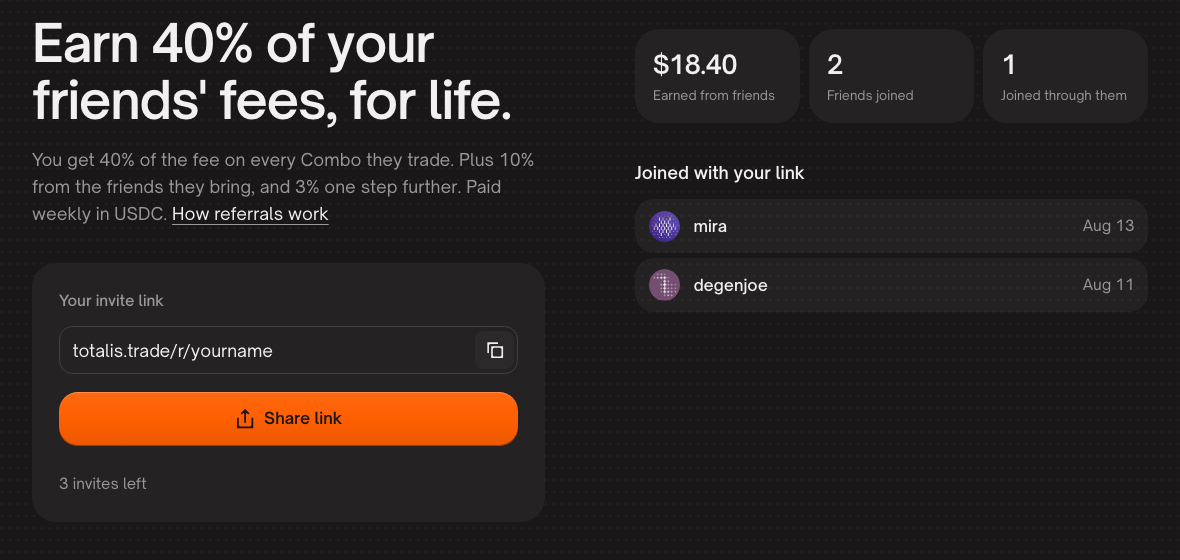
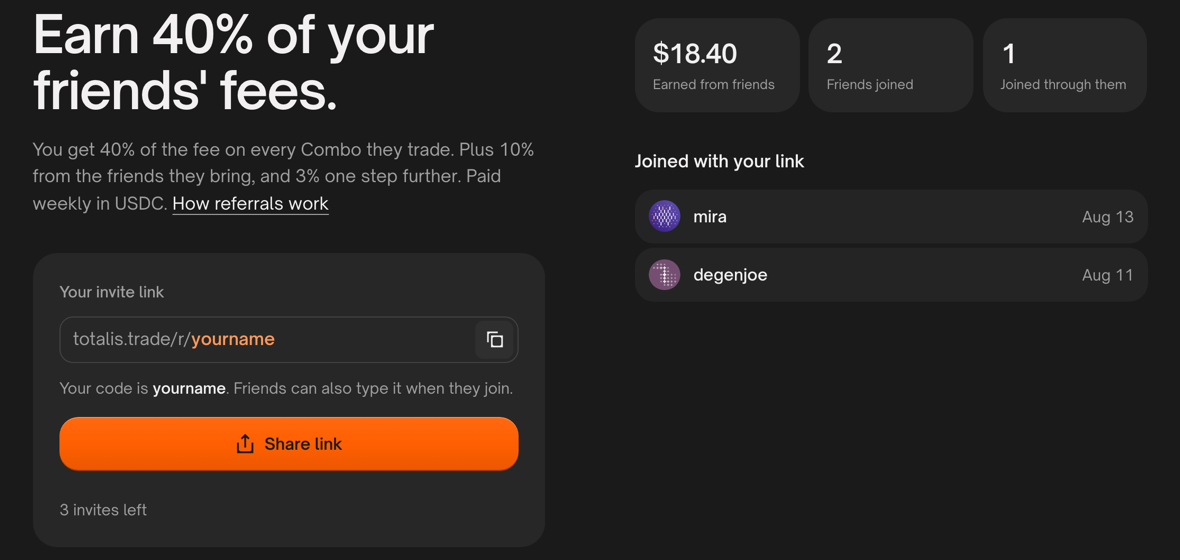
docs(referrals): Genesis accounts keep 40/10/3, others earn 10% from Nov 30 (TT-2969)

diff --git a/images/pictures/src/referrals.html b/images/pictures/src/referrals.html
@@ -88,4 +88,4 @@ html, body { margin: 0; width: 1540px; height: 952px; background: var(--bg); fon
 .chan .bar { position: absolute; top: 0; height: 84px; border-radius: 22px; background: var(--box); border: 2px solid var(--box-line); }
 .chan .bar.hi { background: var(--accent-soft); border-color: transparent; }
 .marks { position: absolute; left: 400px; right: 100px; top: 700px; border-top: 4px dashed var(--dash); }
-</style></head><body><div class="stage"><div class="inner" style="zoom:1.0"><div class="tree"><div class="who"><div class="avatar a1"></div><div class="label">You</div></div><div class="dl v" style=--h:72px></div><div class="band hi"><div class="tab"><span class="n">40%</span><span class="t">Invited by you</span></div><div class="avatar a2" style="width:72px;height:72px"></div><div class="avatar a3" style="width:72px;height:72px"></div><div class="avatar a4" style="width:72px;height:72px"></div></div><div class="dl v" style=--h:72px></div><div class="band"><div class="tab"><span class="n">10%</span><span class="t">Invited by them</span></div><div class="kin" style="--g:72px"><div class="avatar a5" style="width:48px;height:48px"></div><div class="avatar a6" style="width:48px;height:48px"></div><div class="avatar a2" style="width:48px;height:48px"></div></div><div class="kin" style="--g:72px"><div class="avatar a3" style="width:48px;height:48px"></div><div class="avatar a4" style="width:48px;height:48px"></div><div class="avatar a5" style="width:48px;height:48px"></div></div><div class="kin" style="--g:72px"><div class="avatar a6" style="width:48px;height:48px"></div><div class="avatar a2" style="width:48px;height:48px"></div><div class="avatar a3" style="width:48px;height:48px"></div></div></div><div class="dl v" style=--h:72px></div><div class="band"><div class="tab"><span class="n">3%</span><span class="t">One step further</span></div><div class="kin" style="--g:26px"><div class="kin" style="--g:8px"><div class="avatar a4" style="width:26px;height:26px"></div><div class="avatar a5" style="width:26px;height:26px"></div><div class="avatar a6" style="width:26px;height:26px"></div></div><div class="kin" style="--g:8px"><div class="avatar a2" style="width:26px;height:26px"></div><div class="avatar a3" style="width:26px;height:26px"></div><div class="avatar a4" style="width:26px;height:26px"></div></div><div class="kin" style="--g:8px"><div class="avatar a5" style="width:26px;height:26px"></div><div class="avatar a6" style="width:26px;height:26px"></div><div class="avatar a2" style="width:26px;height:26px"></div></div></div><div class="kin" style="--g:26px"><div class="kin" style="--g:8px"><div class="avatar a3" style="width:26px;height:26px"></div><div class="avatar a4" style="width:26px;height:26px"></div><div class="avatar a5" style="width:26px;height:26px"></div></div><div class="kin" style="--g:8px"><div class="avatar a6" style="width:26px;height:26px"></div><div class="avatar a2" style="width:26px;height:26px"></div><div class="avatar a3" style="width:26px;height:26px"></div></div><div class="kin" style="--g:8px"><div class="avatar a4" style="width:26px;height:26px"></div><div class="avatar a5" style="width:26px;height:26px"></div><div class="avatar a6" style="width:26px;height:26px"></div></div></div><div class="kin" style="--g:26px"><div class="kin" style="--g:8px"><div class="avatar a2" style="width:26px;height:26px"></div><div class="avatar a3" style="width:26px;height:26px"></div><div class="avatar a4" style="width:26px;height:26px"></div></div><div class="kin" style="--g:8px"><div class="avatar a5" style="width:26px;height:26px"></div><div class="avatar a6" style="width:26px;height:26px"></div><div class="avatar a2" style="width:26px;height:26px"></div></div><div class="kin" style="--g:8px"><div class="avatar a3" style="width:26px;height:26px"></div><div class="avatar a4" style="width:26px;height:26px"></div><div class="avatar a5" style="width:26px;height:26px"></div></div></div></div></div></div></div><script>if (location.search.includes("dark")) document.body.classList.add("dark");</script></body></html>
+</style></head><body><div class="stage"><div class="inner" style="zoom:1.0"><div class="tree"><div class="who"><div class="avatar a1"></div><div class="label">You, with Genesis</div></div><div class="dl v" style=--h:72px></div><div class="band hi"><div class="tab"><span class="n">40%</span><span class="t">Invited by you</span></div><div class="avatar a2" style="width:72px;height:72px"></div><div class="avatar a3" style="width:72px;height:72px"></div><div class="avatar a4" style="width:72px;height:72px"></div></div><div class="dl v" style=--h:72px></div><div class="band"><div class="tab"><span class="n">10%</span><span class="t">Invited by them</span></div><div class="kin" style="--g:72px"><div class="avatar a5" style="width:48px;height:48px"></div><div class="avatar a6" style="width:48px;height:48px"></div><div class="avatar a2" style="width:48px;height:48px"></div></div><div class="kin" style="--g:72px"><div class="avatar a3" style="width:48px;height:48px"></div><div class="avatar a4" style="width:48px;height:48px"></div><div class="avatar a5" style="width:48px;height:48px"></div></div><div class="kin" style="--g:72px"><div class="avatar a6" style="width:48px;height:48px"></div><div class="avatar a2" style="width:48px;height:48px"></div><div class="avatar a3" style="width:48px;height:48px"></div></div></div><div class="dl v" style=--h:72px></div><div class="band"><div class="tab"><span class="n">3%</span><span class="t">One step further</span></div><div class="kin" style="--g:26px"><div class="kin" style="--g:8px"><div class="avatar a4" style="width:26px;height:26px"></div><div class="avatar a5" style="width:26px;height:26px"></div><div class="avatar a6" style="width:26px;height:26px"></div></div><div class="kin" style="--g:8px"><div class="avatar a2" style="width:26px;height:26px"></div><div class="avatar a3" style="width:26px;height:26px"></div><div class="avatar a4" style="width:26px;height:26px"></div></div><div class="kin" style="--g:8px"><div class="avatar a5" style="width:26px;height:26px"></div><div class="avatar a6" style="width:26px;height:26px"></div><div class="avatar a2" style="width:26px;height:26px"></div></div></div><div class="kin" style="--g:26px"><div class="kin" style="--g:8px"><div class="avatar a3" style="width:26px;height:26px"></div><div class="avatar a4" style="width:26px;height:26px"></div><div class="avatar a5" style="width:26px;height:26px"></div></div><div class="kin" style="--g:8px"><div class="avatar a6" style="width:26px;height:26px"></div><div class="avatar a2" style="width:26px;height:26px"></div><div class="avatar a3" style="width:26px;height:26px"></div></div><div class="kin" style="--g:8px"><div class="avatar a4" style="width:26px;height:26px"></div><div class="avatar a5" style="width:26px;height:26px"></div><div class="avatar a6" style="width:26px;height:26px"></div></div></div><div class="kin" style="--g:26px"><div class="kin" style="--g:8px"><div class="avatar a2" style="width:26px;height:26px"></div><div class="avatar a3" style="width:26px;height:26px"></div><div class="avatar a4" style="width:26px;height:26px"></div></div><div class="kin" style="--g:8px"><div class="avatar a5" style="width:26px;height:26px"></div><div class="avatar a6" style="width:26px;height:26px"></div><div class="avatar a2" style="width:26px;height:26px"></div></div><div class="kin" style="--g:8px"><div class="avatar a3" style="width:26px;height:26px"></div><div class="avatar a4" style="width:26px;height:26px"></div><div class="avatar a5" style="width:26px;height:26px"></div></div></div></div></div></div></div><script>if (location.search.includes("dark")) document.body.classList.add("dark");</script></body></html>

diff --git a/images/pictures/src/build.py b/images/pictures/src/build.py
@@ -110,8 +110,8 @@ page('integration-models',
      None, zoom=1.15)
 
 
-# Referrals: you, then three tiers top to bottom. Each person sits under whoever
-# invited them: 3, 9, 27 people as the share falls 40%, 10%, 3%.
+# Referrals: a Genesis account, then three tiers top to bottom. Each person sits
+# under whoever invited them: 3, 9, 27 people as the share falls 40%, 10%, 3%.
 def tot(size, c): return f'<div class="avatar a{c}" style="width:{size}px;height:{size}px"></div>'
 def kin(gap, *x): return f'<div class="kin" style="--g:{gap}px">' + ''.join(x) + '</div>'
 def band(n, t, cols, hi=False):
@@ -119,7 +119,7 @@ def band(n, t, cols, hi=False):
             + ''.join(cols) + '</div>')
 hue = iter([2, 3, 4, 5, 6] * 9)
 page('referrals',
-     '<div class="tree">' + who(1, 'You') + vl(72) +
+     '<div class="tree">' + who(1, 'You, with Genesis') + vl(72) +
      band('40%', 'Invited by you', [tot(72, next(hue)) for _ in range(3)], hi=True) + vl(72) +
      band('10%', 'Invited by them', [kin(72, *(tot(48, next(hue)) for _ in range(3))) for _ in range(3)]) + vl(72) +
      band('3%', 'One step further', [kin(26, *(kin(8, *(tot(26, next(hue)) for _ in range(3))) for _ in range(3))) for _ in range(3)]) +
